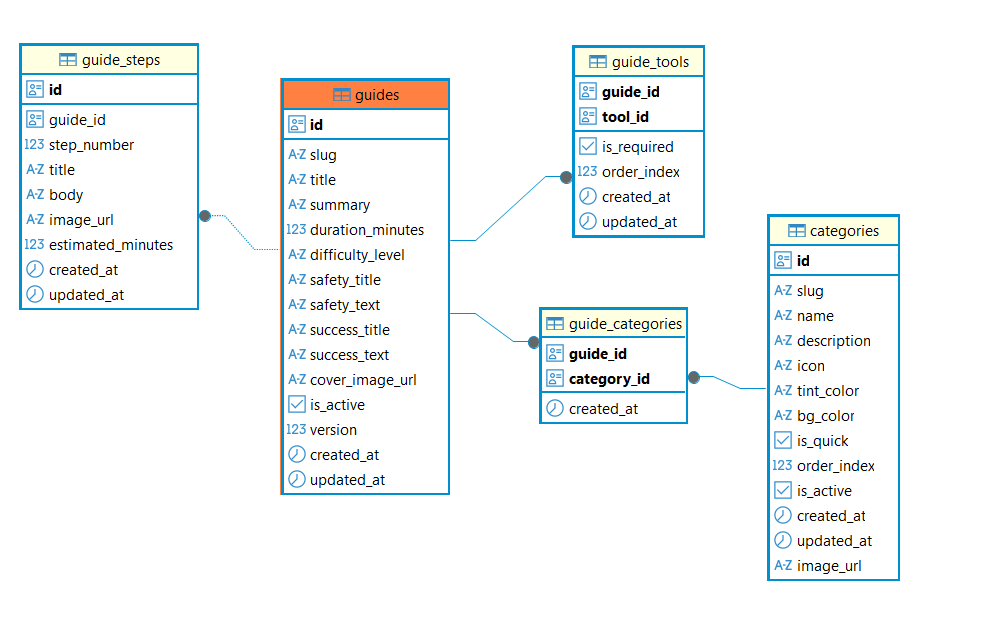
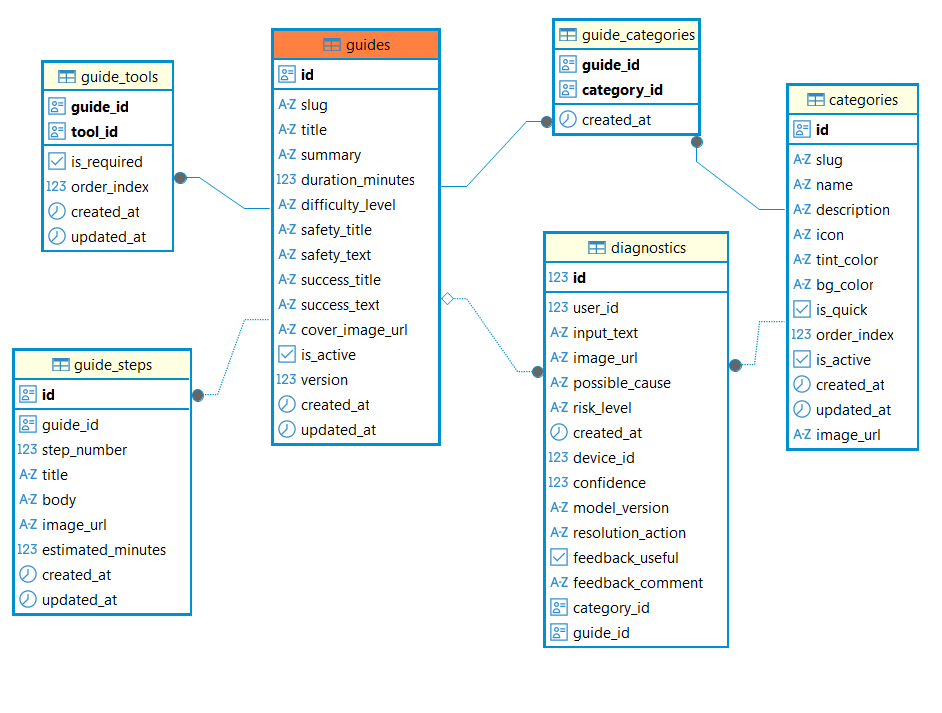
se adicionó campo guideSlug

Changed region(s): [[0.2463, 0.0, 0.9851, 0.9469], [0.0, 0.0611, 0.2155, 0.8859], [0.1847, 0.2444, 0.2155, 0.2749]]

diff --git a/src/services/diagnostic.service.js b/src/services/diagnostic.service.js
@@ -1,5 +1,6 @@
 const diagnosticModel = require('../models/diagnostic.model');
 const categoryModel = require('../models/category.model');
+const guideModel = require('../models/guide.model');
 
 const normalizeText = (value) =>
   String(value || '')
@@ -163,7 +164,26 @@ const resolveCategory = async ({ categoryId, categorySlug }) => {
   return null;
 };
 
-const createDiagnostic = async ({ userId, categoryId, categorySlug, inputText, imageUrl }) => {
+const resolveGuide = async ({ guideId, guideSlug }) => {
+  if (guideId) {
+    return { id: guideId };
+  }
+  if (guideSlug) {
+    const guide = await guideModel.findBySlug({ slug: guideSlug, isActive: true });
+    return guide ? { id: guide.id, slug: guide.slug } : null;
+  }
+  return null;
+};
+
+const createDiagnostic = async ({
+  userId,
+  categoryId,
+  categorySlug,
+  inputText,
+  imageUrl,
+  guideId,
+  guideSlug
+}) => {
   const categoryRecord = await resolveCategory({ categoryId, categorySlug });
   if (!categoryRecord) {
     const error = new Error('category is required');
@@ -186,9 +206,17 @@ const createDiagnostic = async ({ userId, categoryId, categorySlug, inputText, i
 
   const { riskLevel, possibleCause } = resolveDiagnostic(normalizedCategory, inputText);
 
+  const guideRecord = await resolveGuide({ guideId, guideSlug });
+  if ((guideId || guideSlug) && !guideRecord) {
+    const error = new Error('guide is invalid');
+    error.status = 400;
+    throw error;
+  }
+
   const id = await diagnosticModel.create({
     user_id: userId || null,
     category_id: categoryRecord.id,
+    guide_id: guideRecord ? guideRecord.id : null,
     input_text: inputText || null,
     image_url: imageUrl || null,
     possible_cause: possibleCause,
@@ -212,6 +240,7 @@ const createDiagnostic = async ({ userId, categoryId, categorySlug, inputText, i
     ...record,
     category_slug: categoryRecord.slug,
     category_info: categoryRecord,
+    guide_slug: guideRecord ? guideRecord.slug : record.guide_slug || null,
     risk_label: riskInfo.label,
     risk_detail: riskInfo.detail,
     summary_title: trimmedInput || `Problema de ${categoryRecord.name}`,

diff --git a/src/models/diagnostic.model.js b/src/models/diagnostic.model.js
@@ -3,16 +3,18 @@ const db = require('../config/db');
 const create = async ({
   user_id,
   category_id,
+  guide_id,
   input_text,
   image_url,
   possible_cause,
   risk_level
 }) => {
   const result = await db.query(
-    'INSERT INTO diagnostics (user_id, category_id, input_text, image_url, possible_cause, risk_level) VALUES ($1, $2, $3, $4, $5, $6) RETURNING id',
+    'INSERT INTO diagnostics (user_id, category_id, guide_id, input_text, image_url, possible_cause, risk_level) VALUES ($1, $2, $3, $4, $5, $6, $7) RETURNING id',
     [
       user_id || null,
       category_id,
+      guide_id || null,
       input_text || null,
       image_url || null,
       possible_cause,
@@ -24,7 +26,20 @@ const create = async ({
 
 const findById = async (id) => {
   const result = await db.query(
-    'SELECT id, category_id, possible_cause, risk_level, created_at FROM diagnostics WHERE id = $1 LIMIT 1',
+    `
+      SELECT
+        d.id,
+        d.category_id,
+        d.guide_id,
+        d.possible_cause,
+        d.risk_level,
+        d.created_at,
+        g.slug AS guide_slug
+      FROM diagnostics d
+      LEFT JOIN guides g ON g.id = d.guide_id
+      WHERE d.id = $1
+      LIMIT 1
+    `,
     [id]
   );
   return result.rows[0] || null;

diff --git a/src/controllers/diagnostic.controller.js b/src/controllers/diagnostic.controller.js
@@ -10,16 +10,24 @@ const create = async (req, res, next) => {
       category_slug,
       inputText,
       imageUrl,
-      userId
+      userId,
+      guideId,
+      guide_id,
+      guideSlug,
+      guide_slug
     } = req.body;
     const resolvedCategoryId = categoryId || category_id || null;
     const resolvedCategorySlug = categorySlug || category_slug || category || null;
+    const resolvedGuideId = guideId || guide_id || null;
+    const resolvedGuideSlug = guideSlug || guide_slug || null;
     const record = await diagnosticService.createDiagnostic({
       categoryId: resolvedCategoryId,
       categorySlug: resolvedCategorySlug,
       inputText,
       imageUrl,
-      userId
+      userId,
+      guideId: resolvedGuideId,
+      guideSlug: resolvedGuideSlug
     });
 
     res.status(201).json({
@@ -37,6 +45,7 @@ const create = async (req, res, next) => {
           imageUrl: record.category_info.image_url
         }
         : null,
+      guideSlug: record.guide_slug || null,
       possibleCause: record.possible_cause,
       riskLevel: record.risk_level,
       riskLabel: record.risk_label,

diff --git a/docs/guidesUse.md b/docs/guidesUse.md
@@ -1,0 +1,132 @@
+# guidesUse.md
+## Sistema de Guías – Uso, Recomendación y Creación  
+### App QueLePaso
+
+Este documento define de forma integral cómo funciona el **sistema de guías** en QueLePaso, desde el contrato técnico del endpoint hasta la lógica de recomendación y el proceso interno de creación de guías.
+
+El objetivo es que las guías sean:
+- Útiles para el usuario
+- Consistentes a nivel de datos
+- Escalables a nuevas categorías
+- Medibles para aprendizaje validado
+
+---
+
+## 1. Endpoint de consulta de guías
+
+### Objetivo
+Permitir al frontend obtener **toda la información necesaria** para renderizar una guía completa (como “Arreglando la gotera”) en una sola llamada.
+
+---
+
+### Endpoint
+GET /guides/:slug
+GET /guides/arreglando-la-gotera
+
+---
+
+### Parámetros
+- `slug` (string): identificador único de la guía
+
+---
+
+### Respuesta esperada
+
+```json
+{
+  "id": "uuid",
+  "slug": "arreglando-la-gotera",
+  "title": "Arreglando la gotera",
+  "summary": "Soluciona una gotera básica en el grifo de tu cocina.",
+  "duration_minutes": 20,
+  "difficulty": "basico",
+  "category": {
+    "id": "uuid",
+    "slug": "plomeria",
+    "name": "Plomería",
+    "icon": "plumbing",
+    "tint_color": "#1976D2",
+    "bg_color": "#E3F2FD"
+  },
+  "safety": {
+    "title": "¡Ojo! Seguridad ante todo",
+    "message": "Antes de empezar, cierre la llave de paso del agua..."
+  },
+  "tools": [
+    { "id": "uuid", "name": "Destornillador de estrella", "required": true },
+    { "id": "uuid", "name": "Cinta de teflón", "required": true }
+  ],
+  "steps": [
+    {
+      "step_number": 1,
+      "title": "Quite la tapa del grifo",
+      "description": "Con el destornillador retire el tornillo superior...",
+      "image_url": "https://cdn.quelepaso.app/steps/grifo_1.jpg"
+    },
+    {
+      "step_number": 2,
+      "title": "Desenrosque el vástago",
+      "description": "Use la llave inglesa y gire hacia la izquierda...",
+      "image_url": "https://cdn.quelepaso.app/steps/grifo_2.jpg"
+    }
+  ],
+  "success": {
+    "title": "¡Listo el pollo!",
+    "message": "Vuelva a armar todo y abra la llave de paso..."
+  }
+}
+
+Estados de error
+
+404: guía no encontrada o inactiva
+
+410: guía deshabilitada
+
+500: error interno
+
+2. Decisión automática de qué guía sugerir
+Objetivo
+
+Determinar qué guía mostrar al usuario según su diagnóstico y contexto.
+
+Entradas del sistema
+
+Categoría del diagnóstico (diagnostics.category_id)
+
+Nivel de riesgo (risk_level)
+
+Texto ingresado por el usuario
+
+Confianza del diagnóstico
+
+Historial del usuario
+
+Guías activas disponibles
+
+Regla base (MVP)
+
+Si el riesgo es alto → no mostrar guía, sugerir técnico
+
+Buscar guías activas de la misma categoría
+
+Priorizar:
+
+is_quick = true
+
+menor dificultad
+
+mayor efectividad histórica
+
+Si no hay coincidencias → usar categoría otro
+Métricas asociadas
+
+Guía sugerida
+
+Guía abierta
+
+Guía completada
+
+Click en “contactar técnico”
+
+Feedback útil / no útil
+
